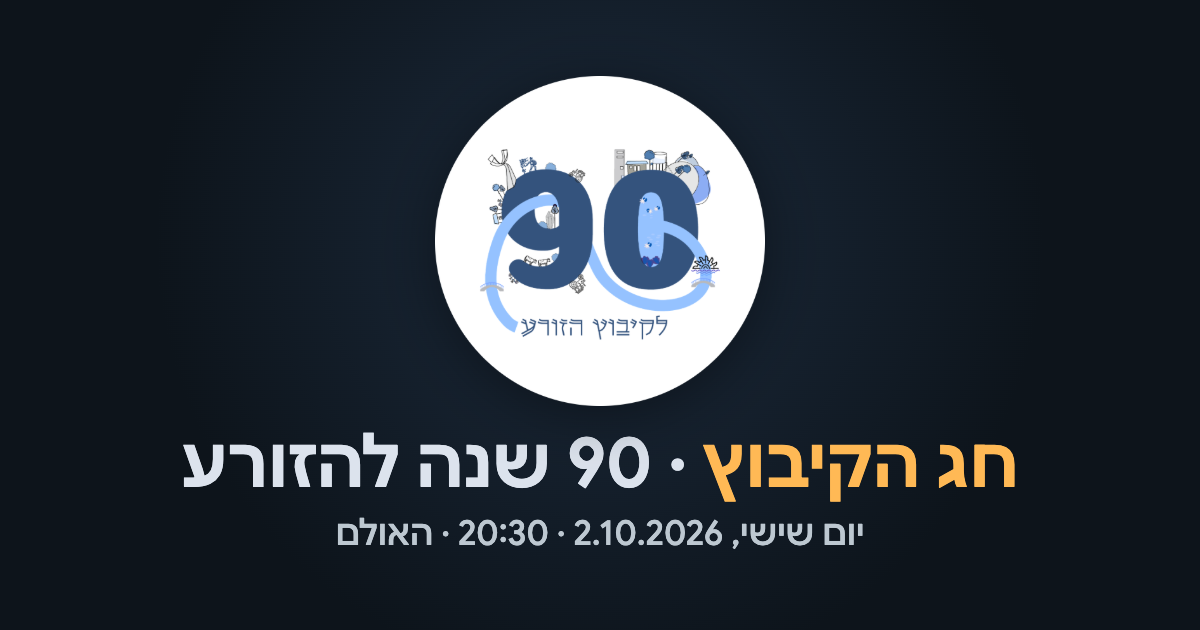
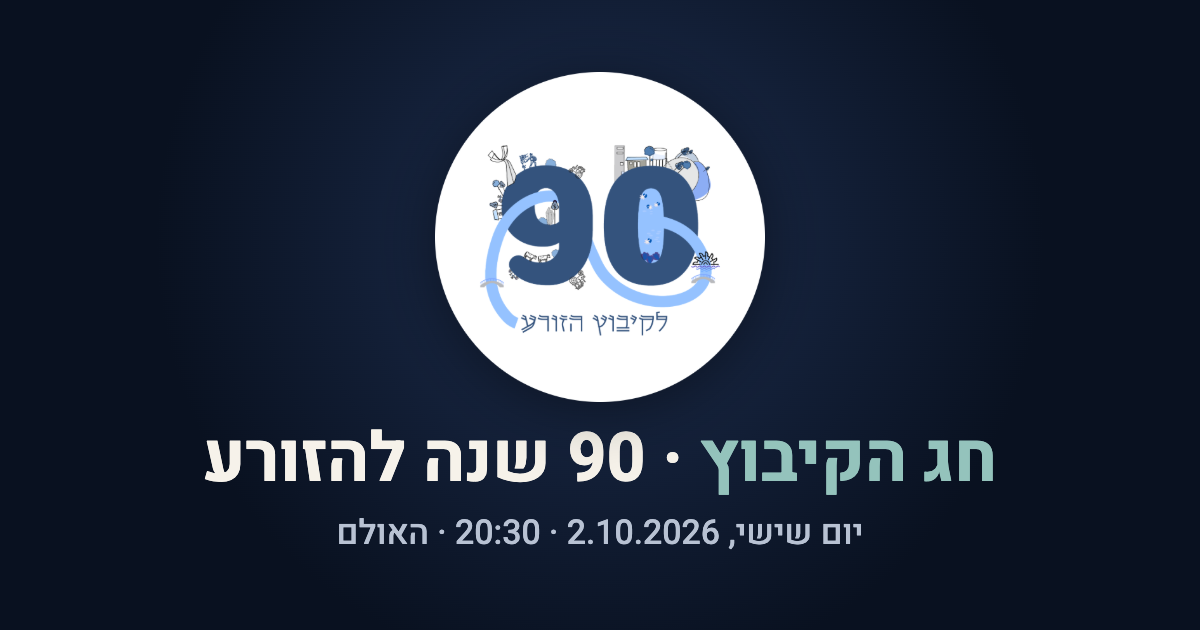
Apply the brand palette and Heebo, calmer headings and bottom nav
Colors follow the brand palette (f6f2ea, 94c3bc, 6db0ff, 284e90, 091120),
with every text/background pair checked for AA; the header wash becomes the
brand cream. Body font is Heebo. Section headings are smaller, bottom nav
labels lighter and smaller, and all program and participant numbers share
one color. The heading font gets its own variable for the coming display
font. The preview image follows the new palette.

diff --git a/style.css b/style.css
@@ -1,41 +1,45 @@
 /* =========================================================
-   Design tokens – from the Stitch "Hazorea90" screens
-   (dark and light variants). Adjusted for AA where noted.
+   Design tokens – brand palette (coolors: f6f2ea · 94c3bc · 6db0ff · 284e90 · 091120)
+   on the Stitch layout. Every text/background pair is checked for WCAG AA.
    ========================================================= */
 :root {
   /* Dark (default) */
-  --bg: #0d141b;
-  --surface: #151c24;
-  --surface-2: #192028;
-  --surface-3: #242b32;
-  --text: #dce3ed;
-  --text-muted: #bdc8d1;
-  --accent: #81cfff;
-  --accent-contrast: #00344b;
-  --accent-warm: #ffb955;
-  --accent-green: #66bb6a;      /* Stitch #388e3c fails AA on dark */
-  --hero-title: #ffb955;
-  --border: #22364c;
+  --bg: #091120;
+  --surface: #101c33;
+  --surface-2: #15233e;
+  --surface-3: #1d2e4f;
+  --text: #f6f2ea;
+  --text-muted: #b8c2d3;
+  --accent: #6db0ff;
+  --accent-contrast: #091120;
+  --accent-warm: #94c3bc;
+  --accent-alt: #f6f2ea;
+  --hero-title: #94c3bc;
+  --border: #243a5e;
   --card-border: transparent;
-  --nav-active-bg: #0b3c5d;
-  --focus: #ffb955;
+  --nav-active-bg: #1c3563;
+  --focus: #94c3bc;
+  --num-color: #6db0ff; /* all program and participant numbers */
 
-  /* Program types: tag background / tag text / number color */
-  --tag-film-bg: #1f4a6c;  --tag-film-fg: #91b9e0;  --tag-film-ink: #a3cbf2;
-  --tag-song-bg: #d18a00;  --tag-song-fg: #452b00;  --tag-song-ink: #ffb955;
-  --tag-dance-bg: rgb(56 142 60 / 0.2);  --tag-dance-fg: #66bb6a;  --tag-dance-ink: #66bb6a;
-  --tag-rap-bg: #00a3e0;   --tag-rap-fg: #00354b;   --tag-rap-ink: #81cfff;
-  --tag-play-bg: #e67e22;  --tag-play-fg: #2a1700;  --tag-play-ink: #e67e22;
-  --tag-other-bg: #0b3c5d; --tag-other-fg: #cee5ff; --tag-other-ink: #cee5ff;
+  /* Program types: tag background / tag text */
+  --tag-film-bg: #284e90;  --tag-film-fg: #f6f2ea;
+  --tag-song-bg: #94c3bc;  --tag-song-fg: #091120;
+  --tag-dance-bg: rgb(148 195 188 / 0.16); --tag-dance-fg: #94c3bc;
+  --tag-rap-bg: #6db0ff;   --tag-rap-fg: #091120;
+  --tag-play-bg: #f6f2ea;  --tag-play-fg: #284e90;
+  --tag-other-bg: rgb(109 176 255 / 0.16); --tag-other-fg: #9fcaff;
   --tag-border: transparent;
 
   /* Typography (html is 18px, so 1rem = 18px) */
-  --font-body: 'Google Sans', system-ui, -apple-system, 'Segoe UI', Arial, sans-serif;
+  --font-body: 'Heebo', system-ui, -apple-system, 'Segoe UI', Arial, sans-serif;
+  --font-display: var(--font-body); /* main and section headings */
+  --display-weight: 700;
   --fs-sm: 0.8333rem;   /* 15px label */
   --fs-base: 1rem;      /* 18px body */
   --fs-md: 1.1111rem;   /* 20px card title */
   --fs-lg: 1.3333rem;   /* 24px program number */
-  --fs-xl: 1.7778rem;   /* 32px section heading */
+  --fs-xl: 1.7778rem;   /* 32px hero subtitle */
+  --fs-section: 1.4444rem; /* 26px section headings */
   --fs-hero: clamp(2rem, 9vw, 2.6667rem);
   --fs-lyrics: 1.2222rem; /* 22px */
   --lh-body: 1.55;
@@ -56,10 +60,10 @@
   --shadow-header: 0 4px 20px rgb(0 0 0 / 0.3);
   --shadow-bottom: 0 -4px 20px rgb(0 0 0 / 0.35);
 
-  /* Header photo: text sits on the bright sky, so it uses the logo's navy in both modes */
-  --hero-title-ink: #305078;
-  --hero-ink: #1c2e48;
-  --hero-overlay: rgb(255 255 255 / 0.5);
+  /* Header photo: text sits on the washed sky, in the brand navy and ink in both modes */
+  --hero-title-ink: #284e90;
+  --hero-ink: #091120;
+  --hero-overlay: rgb(246 242 234 / 0.5); /* brand cream wash over the whole photo */
 
   /* Layout */
   --content-max: 900px;
@@ -72,33 +76,34 @@
 }
 
 :root[data-theme="light"] {
-  --bg: #f8fafc;
-  --surface: #ffffff;
-  --surface-2: #f1f5f9;
-  --surface-3: #f1f5f9;
-  --text: #131b2e;
-  --text-muted: #49607e;
-  --accent: #006193;
+  --bg: #f6f2ea;
+  --surface: #fffdf8;
+  --surface-2: #efe9dd;
+  --surface-3: #ebe4d6;
+  --text: #091120;
+  --text-muted: #3f4c63;
+  --accent: #284e90;
   --accent-contrast: #ffffff;
-  --accent-warm: #b45309;       /* Stitch #d97706 passes only as large text */
-  --accent-green: #2e7d32;
-  --hero-title: #006193;
-  --border: #e2e8f0;
-  --card-border: #e2e8f0;
-  --nav-active-bg: #e0f2fe;
-  --focus: #006193;
+  --accent-warm: #2e6b62;       /* the brand sage, darkened for AA on cream */
+  --accent-alt: #091120;
+  --hero-title: #284e90;
+  --border: #e2dbcc;
+  --card-border: #e2dbcc;
+  --nav-active-bg: #dfe9f7;
+  --focus: #284e90;
+  --num-color: #284e90;
 
-  --tag-film-bg: #eaedff;  --tag-film-fg: #49607e;  --tag-film-ink: #49607e;
-  --tag-song-bg: #fef3c7;  --tag-song-fg: #825100;  --tag-song-ink: #b45309;
-  --tag-dance-bg: #e8f5e9; --tag-dance-fg: #2e7d32; --tag-dance-ink: #2e7d32;
-  --tag-rap-bg: #cce5ff;   --tag-rap-fg: #004b73;   --tag-rap-ink: #0369a1;
-  --tag-play-bg: #ffedd5;  --tag-play-fg: #c2410c;  --tag-play-ink: #c2410c;
-  --tag-other-bg: #e0f2fe; --tag-other-fg: #0369a1; --tag-other-ink: #006193;
+  --tag-film-bg: #284e90;  --tag-film-fg: #ffffff;
+  --tag-song-bg: #d5e9e5;  --tag-song-fg: #1f4f48;
+  --tag-dance-bg: #e3eefc; --tag-dance-fg: #1d4a86;
+  --tag-rap-bg: #091120;   --tag-rap-fg: #f6f2ea;
+  --tag-play-bg: #94c3bc;  --tag-play-fg: #091120;
+  --tag-other-bg: #ebe4d6; --tag-other-fg: #3f4c63;
   --tag-border: rgb(0 0 0 / 0.06);
 
-  --shadow-card: 0 1px 3px rgb(0 0 0 / 0.04);
-  --shadow-header: 0 2px 12px rgb(0 0 0 / 0.06);
-  --shadow-bottom: 0 -2px 12px rgb(0 0 0 / 0.06);
+  --shadow-card: 0 1px 3px rgb(9 17 32 / 0.05);
+  --shadow-header: 0 2px 12px rgb(9 17 32 / 0.07);
+  --shadow-bottom: 0 -2px 12px rgb(9 17 32 / 0.07);
 
   color-scheme: light;
 }
@@ -219,15 +224,17 @@ a { color: var(--accent); }
   gap: var(--space-2);
 }
 .hero-title {
+  font-family: var(--font-display);
   font-size: var(--fs-hero);
-  font-weight: 700; /* Google Sans tops out at 700 */
+  font-weight: var(--display-weight);
   line-height: 1.1;
   color: var(--hero-title-ink);
 }
 .hero-subtitle {
   color: var(--hero-ink);
+  font-family: var(--font-display);
   font-size: var(--fs-xl);
-  font-weight: 700;
+  font-weight: var(--display-weight);
   line-height: 1.2;
 }
 .hero-meta {
@@ -280,7 +287,8 @@ a { color: var(--accent); }
   min-width: 0;
   overflow: hidden;
   color: var(--hero-title);
-  font-weight: 700; /* Google Sans tops out at 700 */
+  font-family: var(--font-display);
+  font-weight: var(--display-weight);
   line-height: var(--tap);
   text-decoration: none;
   text-overflow: ellipsis;
@@ -317,8 +325,8 @@ a { color: var(--accent); }
   min-height: var(--bottom-nav-h);
   padding: 6px 2px;
   color: var(--text-muted);
-  font-size: 14px;
-  font-weight: 500;
+  font-size: 13px;
+  font-weight: 400;
   line-height: 1.2;
   text-decoration: none;
   white-space: nowrap;
@@ -332,7 +340,7 @@ a { color: var(--accent); }
   stroke-linecap: round;
   stroke-linejoin: round;
 }
-.bottomnav-links a[aria-current] { color: var(--accent); font-weight: 700; }
+.bottomnav-links a[aria-current] { color: var(--accent); font-weight: 500; }
 .bottomnav-links a[aria-current] svg { stroke-width: 2.4; }
 .bottomnav-links a:focus-visible { outline-offset: -3px; }
 
@@ -371,8 +379,9 @@ main { padding-block: var(--space-4) var(--space-6); }
 .section + .section { margin-block-start: var(--space-4); }
 .section > h2 {
   margin-block-end: var(--space-4);
-  font-size: var(--fs-xl);
-  font-weight: 700; /* Google Sans tops out at 700 */
+  font-family: var(--font-display);
+  font-size: var(--fs-section);
+  font-weight: var(--display-weight);
   line-height: 1.2;
 }
 
@@ -452,7 +461,7 @@ main { padding-block: var(--space-4) var(--space-6); }
 .program-num {
   flex-shrink: 0;
   min-width: 2.25rem;
-  color: var(--num-color, var(--accent));
+  color: var(--num-color);
   font-size: var(--fs-lg);
   font-weight: 700;
   line-height: 1.2;
@@ -488,21 +497,13 @@ main { padding-block: var(--space-4) var(--space-6); }
 .tag--play  { --tag-bg: var(--tag-play-bg);  --tag-fg: var(--tag-play-fg); }
 .tag--other { --tag-bg: var(--tag-other-bg); --tag-fg: var(--tag-other-fg); }
 
-/* Program numbers take their type's color, as in the Stitch screens (program and participants) */
-.num--film  { --num-color: var(--tag-film-ink); }
-.num--song  { --num-color: var(--tag-song-ink); }
-.num--dance { --num-color: var(--tag-dance-ink); }
-.num--rap   { --num-color: var(--tag-rap-ink); }
-.num--play  { --num-color: var(--tag-play-ink); }
-.num--other { --num-color: var(--tag-other-ink); }
-
 /* Participants */
 .participants-head { display: flex; align-items: center; gap: var(--space-2); }
 .participants-head .card-title { flex: 1; min-width: 0; }
 .participants-num {
   flex-shrink: 0;
   min-width: 1.75rem;
-  color: var(--num-color, var(--accent));
+  color: var(--num-color);
   font-size: var(--fs-md);
   font-weight: 700;
   font-variant-numeric: tabular-nums;
@@ -541,7 +542,7 @@ main { padding-block: var(--space-4) var(--space-6); }
   font-weight: 700;
 }
 .team-group:nth-child(1) .team-title { color: var(--accent-warm); }
-.team-group:nth-child(2) .team-title { color: var(--accent-green); }
+.team-group:nth-child(2) .team-title { color: var(--accent-alt); }
 
 /* Thanks */
 .thanks-body { display: grid; gap: var(--space-3); padding: var(--space-4); }

diff --git a/app.js b/app.js
@@ -124,8 +124,8 @@ function buildModel(tabs) {
   const programByTitle = new Map(program.map((p) => [p.title, p]));
   const participants = [...bySection.entries()]
     .map(([section, people], idx) => {
-      const item = programByTitle.get(section); // gives the group its program number and type color
-      return { section, people, idx, order: item ? item.order : '', type: item ? item.type : '' };
+      const item = programByTitle.get(section); // gives the group its program number
+      return { section, people, idx, order: item ? item.order : '' };
     })
     .sort((a, b) => rank(a.section) - rank(b.section) || a.idx - b.idx);
 
@@ -216,9 +216,9 @@ function typeClass(type) {
   return `tag tag--${typeKey(type)}`;
 }
 
-// Program number ("01"), colored by the item's type.
-function programNum(className, order, type) {
-  return el('span', `${className} num--${typeKey(type)}`, order ? String(order).padStart(2, '0') : '');
+// Program number ("01"); all numbers share one color (--num-color).
+function programNum(className, order) {
+  return el('span', className, order ? String(order).padStart(2, '0') : '');
 }
 
 function personText(p) {
@@ -269,7 +269,7 @@ function renderProgram(program) {
   const list = document.getElementById('program-list');
   for (const item of program) {
     const head = el('span', 'program-head');
-    head.append(programNum('program-num', item.order, item.type));
+    head.append(programNum('program-num', item.order));
     const main = el('span', 'program-main');
     main.append(el('span', 'card-title', item.title));
     const meta = el('span', 'program-meta');
@@ -294,7 +294,7 @@ function renderParticipants(participants) {
   const list = document.getElementById('participants-list');
   for (const group of participants) {
     const head = el('span', 'participants-head');
-    head.append(programNum('participants-num', group.order, group.type)); // empty for link segments, keeps titles aligned
+    head.append(programNum('participants-num', group.order)); // empty for link segments, keeps titles aligned
     head.append(el('span', 'card-title', group.section));
     const count = el('span', 'count', String(group.people.length));
     count.setAttribute('aria-label', `${group.people.length} משתתפים`);
@@ -388,7 +388,7 @@ function initTheme() {
   const apply = (theme) => {
     root.dataset.theme = theme;
     btn.setAttribute('aria-label', theme === 'dark' ? 'מעבר למצב בהיר' : 'מעבר למצב כהה');
-    meta.setAttribute('content', getComputedStyle(root).getPropertyValue('--bg').trim() || '#0d141b');
+    meta.setAttribute('content', getComputedStyle(root).getPropertyValue('--bg').trim() || '#091120');
   };
   apply(storeGet('hz90-theme') === 'light' ? 'light' : 'dark');
   btn.addEventListener('click', () => {

diff --git a/index.html b/index.html
@@ -5,7 +5,7 @@
   <meta name="viewport" content="width=device-width, initial-scale=1, viewport-fit=cover">
   <title>חג הקיבוץ - 90 שנה להזורע</title>
   <meta name="description" content="התוכנייה של חג הקיבוץ: 90 שנה להזורע. יום שישי 2.10.2026, 20:30, האולם.">
-  <meta name="theme-color" content="#0d141b">
+  <meta name="theme-color" content="#091120">
   <meta name="color-scheme" content="dark light">
   <link rel="icon" href="icon-32.png" sizes="32x32" type="image/png">
   <link rel="icon" href="icon-192.png" sizes="192x192" type="image/png">
@@ -35,10 +35,10 @@
 
   <link rel="preconnect" href="https://fonts.googleapis.com">
   <link rel="preconnect" href="https://fonts.gstatic.com" crossorigin>
-  <link rel="stylesheet" href="https://fonts.googleapis.com/css2?family=Google+Sans:wght@400..700&display=swap">
+  <link rel="stylesheet" href="https://fonts.googleapis.com/css2?family=Heebo:wght@400;500;700&display=swap">
   <!-- Bump ?v= whenever style.css or app.js changes, so phones don't mix cached and new files -->
-  <link rel="stylesheet" href="style.css?v=20260929b">
-  <script src="app.js?v=20260929b" defer></script>
+  <link rel="stylesheet" href="style.css?v=20260929c">
+  <script src="app.js?v=20260929c" defer></script>
 </head>
 <body>
   <a class="skip-link" href="#program">דלגו לתוכנייה</a>
